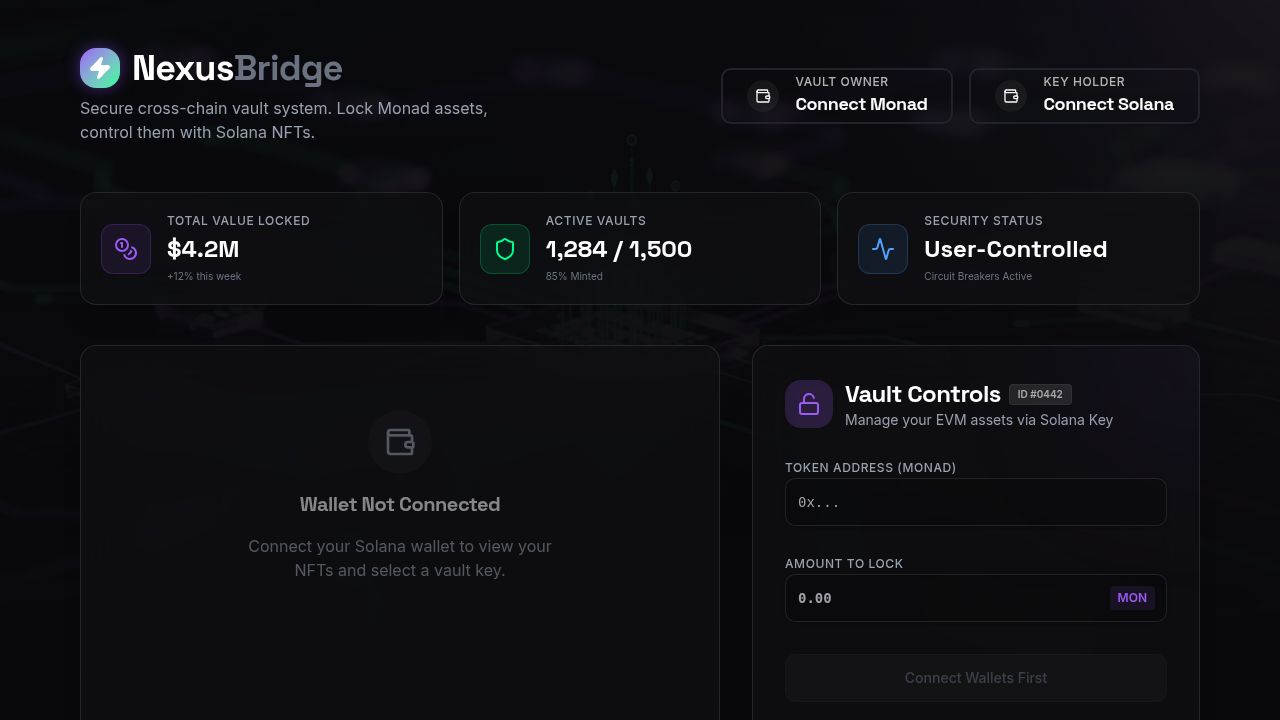
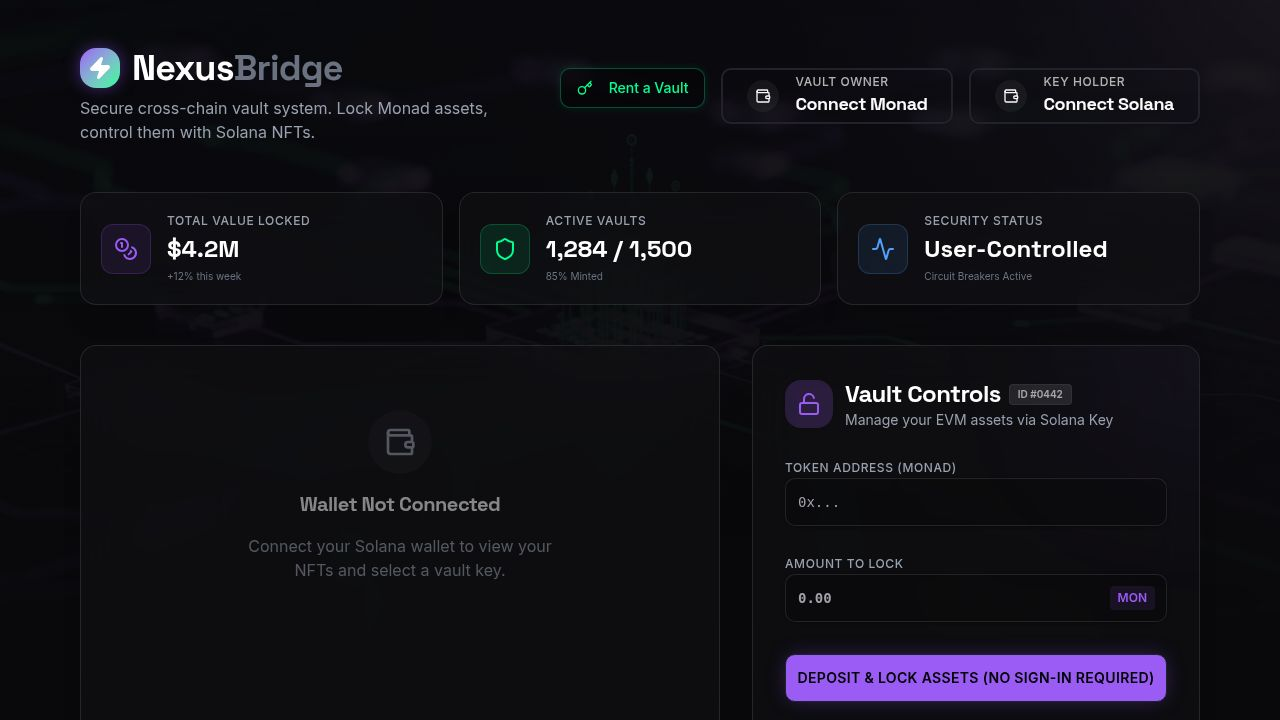
Add options to mint vault keys using QR codes or custom images
Integrate new minting methods (QR code and custom image) into `MintNftModal.tsx`, including UI updates and logic for generating visual signatures and processing uploads.

Replit-Commit-Author: Agent
Replit-Commit-Session-Id: 85125c5f-703c-4aff-8761-e4a4a5d4084c
Replit-Commit-Checkpoint-Type: full_checkpoint
Replit-Commit-Event-Id: 35571d31-1959-4d36-9ad8-fc3665dfab8d
Replit-Commit-Screenshot-Url: https://storage.googleapis.com/screenshot-production-us-central1/dc5e0740-d485-4e62-8101-ae9cfde10d19/85125c5f-703c-4aff-8761-e4a4a5d4084c/OAlcnFX
Replit-Helium-Checkpoint-Created: true

Changed region(s): [[0.5938, 0.8861, 0.9375, 0.9778], [0.4375, 0.0917, 0.5312, 0.1528]]

diff --git a/client/src/components/MintNftModal.tsx b/client/src/components/MintNftModal.tsx
@@ -1,10 +1,11 @@
-import { useState } from "react";
-import { Dialog, DialogContent, DialogHeader, DialogTitle, DialogDescription, DialogFooter } from "@/components/ui/dialog";
+import { useState, useMemo } from "react";
+import { Dialog, DialogContent, DialogHeader, DialogTitle, DialogDescription } from "@/components/ui/dialog";
 import { Button } from "@/components/ui/button";
 import { Input } from "@/components/ui/input";
 import { Label } from "@/components/ui/label";
-import { Terminal, Upload, Loader2, Key } from "lucide-react";
+import { Terminal, Upload, Loader2, Key, QrCode, ImageIcon } from "lucide-react";
 import { motion, AnimatePresence } from "framer-motion";
+import { Tabs, TabsList, TabsTrigger, TabsContent } from "@/components/ui/tabs";
 
 interface MintNftModalProps {
   isOpen: boolean;
@@ -16,7 +17,24 @@ export function MintNftModal({ isOpen, onClose, onSuccess }: MintNftModalProps) 
   const [step, setStep] = useState<"form" | "minting" | "success">("form");
   const [collectionName, setCollectionName] = useState("NexusBridge Secure Keys");
   const [keyName, setKeyName] = useState("Vault Key #001");
+  const [mintMethod, setMintMethod] = useState<"qr" | "image">("qr");
   const [logs, setLogs] = useState<string[]>([]);
+  const [previewImage, setPreviewImage] = useState<string | null>(null);
+
+  // Generate a random seed when the modal opens to use for the visual signature if the user hasn't typed much
+  const visualSeed = useMemo(() => Math.random().toString(36).substring(7), [isOpen]);
+  const currentSeed = keyName.length > 2 ? keyName : visualSeed;
+
+  const handleImageUpload = (e: React.ChangeEvent<HTMLInputElement>) => {
+    const file = e.target.files?.[0];
+    if (file) {
+      const reader = new FileReader();
+      reader.onloadend = () => {
+        setPreviewImage(reader.result as string);
+      };
+      reader.readAsDataURL(file);
+    }
+  };
 
   const handleMint = () => {
     setStep("minting");
@@ -38,6 +56,16 @@ export function MintNftModal({ isOpen, onClose, onSuccess }: MintNftModalProps) 
       await addLog("WebSocket URL: wss://api.devnet.solana.com/", 100);
       await addLog(`> spl-token create-token --program-id TokenzQdBNbLqP5VEhdkAS6EPFLC1PHnBqCXEpPxuEb`, 1000);
       await addLog("Creating token 7Xz...9qL under Token-2022 Program", 500);
+      
+      if (mintMethod === 'qr') {
+        await addLog("> Generating secure QR payload...", 400);
+        await addLog(`Applying visual signature hash: ${currentSeed.substring(0, 8)}...`, 300);
+        await addLog("Payload: nexus://auth/vault/0442/sig=9x2...", 300);
+      } else {
+        await addLog("> Processing custom image asset...", 600);
+        await addLog("Optimizing image resolution and generating hash...", 400);
+      }
+
       await addLog(`> metaplex mint --collection "${collectionName}" --name "${keyName}"`, 1200);
       await addLog("Uploading metadata to Arweave (Irys)...", 800);
       await addLog("Transaction Signature: 4vJ9mK...pQw2", 1500);
@@ -52,14 +80,19 @@ export function MintNftModal({ isOpen, onClose, onSuccess }: MintNftModalProps) 
   };
 
   const handleFinish = () => {
+    const finalImage = mintMethod === 'image' && previewImage 
+      ? previewImage 
+      : `https://api.dicebear.com/7.x/shapes/svg?seed=${encodeURIComponent(currentSeed)}&backgroundColor=000000`;
+
     onSuccess({
       id: Math.random().toString(36).substring(7),
       name: keyName,
-      image: "https://images.unsplash.com/photo-1639815188546-c43c240ff4df?w=400&h=400&fit=crop", // Abstract crypto art
-      rarity: "Custom Mint",
+      image: finalImage,
+      rarity: mintMethod === 'qr' ? "Visual QR Key" : "Custom Art",
     });
     setStep("form");
     setLogs([]);
+    setPreviewImage(null);
     onClose();
   };
 
@@ -67,6 +100,7 @@ export function MintNftModal({ isOpen, onClose, onSuccess }: MintNftModalProps) 
     if (step !== "minting") {
       setStep("form");
       setLogs([]);
+      setPreviewImage(null);
       onClose();
     }
   };
@@ -80,7 +114,7 @@ export function MintNftModal({ isOpen, onClose, onSuccess }: MintNftModalProps) 
             Mint New Vault Key
           </DialogTitle>
           <DialogDescription className="text-gray-400">
-            Use Metaplex Core and Solana CLI to mint a new secure NFT bearer instrument.
+            Mint a secure NFT bearer instrument directly to your wallet.
           </DialogDescription>
         </DialogHeader>
 
@@ -94,35 +128,99 @@ export function MintNftModal({ isOpen, onClose, onSuccess }: MintNftModalProps) 
               className="space-y-6 py-4"
             >
               <div className="space-y-2">
-                <Label className="text-xs uppercase tracking-wider text-gray-400">Collection</Label>
-                <Input
-                  value={collectionName}
-                  onChange={(e) => setCollectionName(e.target.value)}
-                  className="bg-white/5 border-white/10 focus-visible:ring-solana-green"
-                />
-              </div>
-              <div className="space-y-2">
                 <Label className="text-xs uppercase tracking-wider text-gray-400">Key Name</Label>
                 <Input
                   value={keyName}
                   onChange={(e) => setKeyName(e.target.value)}
                   className="bg-white/5 border-white/10 focus-visible:ring-solana-green font-mono"
+                  placeholder="Enter a name to generate your visual signature"
                 />
               </div>
-              <div className="space-y-2">
-                <Label className="text-xs uppercase tracking-wider text-gray-400">Artwork (Optional)</Label>
-                <div className="h-24 rounded-lg border-2 border-dashed border-white/10 flex flex-col items-center justify-center text-gray-500 hover:text-white hover:border-white/30 hover:bg-white/5 transition-all cursor-pointer">
-                  <Upload className="h-6 w-6 mb-2" />
-                  <span className="text-xs">Click to upload custom art</span>
-                </div>
-                <p className="text-[10px] text-gray-500 text-center">Defaults to NexusBridge generative art if left blank</p>
+
+              <div className="space-y-3">
+                <Label className="text-xs uppercase tracking-wider text-gray-400">Key Format</Label>
+                <Tabs value={mintMethod} onValueChange={(v) => setMintMethod(v as "qr" | "image")} className="w-full">
+                  <TabsList className="grid w-full grid-cols-2 bg-white/5 border border-white/10">
+                    <TabsTrigger value="qr" className="data-[state=active]:bg-solana-green data-[state=active]:text-black transition-all">
+                      <QrCode className="h-4 w-4 mr-2" />
+                      Secure QR Code
+                    </TabsTrigger>
+                    <TabsTrigger value="image" className="data-[state=active]:bg-solana-green data-[state=active]:text-black transition-all">
+                      <ImageIcon className="h-4 w-4 mr-2" />
+                      Custom Image
+                    </TabsTrigger>
+                  </TabsList>
+                  
+                  <div className="mt-4 min-h-[160px] border border-white/10 rounded-lg bg-black/40 flex items-center justify-center p-4 relative overflow-hidden">
+                    <TabsContent value="qr" className="m-0 w-full flex flex-col items-center justify-center text-center space-y-4">
+                       <div className="p-4 bg-white rounded-lg relative">
+                         <QrCode className="h-20 w-20 text-black" />
+                         <div className="absolute inset-0 flex items-center justify-center pointer-events-none">
+                           <div className="h-8 w-8 rounded overflow-hidden border-2 border-white bg-black">
+                             <img 
+                               src={`https://api.dicebear.com/7.x/shapes/svg?seed=${encodeURIComponent(currentSeed)}`} 
+                               alt="Visual Signature" 
+                               className="w-full h-full object-cover"
+                             />
+                           </div>
+                         </div>
+                       </div>
+                       <div>
+                         <p className="text-sm font-bold text-solana-green">Cryptographic QR Key</p>
+                         <p className="text-xs text-gray-400 max-w-[250px] mx-auto mt-1">
+                           Includes a unique visual signature based on the Key Name so you can easily recognize it.
+                         </p>
+                       </div>
+                    </TabsContent>
+                    
+                    <TabsContent value="image" className="m-0 w-full h-full">
+                      {previewImage ? (
+                        <div className="relative w-full h-full min-h-[140px] flex items-center justify-center group">
+                          <img src={previewImage} alt="Preview" className="max-h-[140px] rounded-md object-contain" />
+                          <div className="absolute inset-0 bg-black/60 opacity-0 group-hover:opacity-100 transition-opacity flex items-center justify-center rounded-md">
+                            <Label htmlFor="image-upload" className="cursor-pointer text-white text-xs font-bold px-3 py-1.5 bg-white/20 rounded hover:bg-white/30 transition-colors">
+                              Change Image
+                            </Label>
+                          </div>
+                        </div>
+                      ) : (
+                        <div className="flex flex-col items-center justify-center h-full min-h-[140px] text-gray-500 hover:text-white transition-colors cursor-pointer w-full">
+                          <Label htmlFor="image-upload" className="flex flex-col items-center justify-center cursor-pointer w-full h-full">
+                            <Upload className="h-8 w-8 mb-3" />
+                            <span className="text-sm font-medium">Click to upload custom art</span>
+                            <span className="text-[10px] mt-1 text-gray-500">JPG, PNG, GIF up to 5MB</span>
+                          </Label>
+                        </div>
+                      )}
+                      <input 
+                        id="image-upload" 
+                        type="file" 
+                        accept="image/*" 
+                        className="hidden" 
+                        onChange={handleImageUpload}
+                      />
+                    </TabsContent>
+                  </div>
+                </Tabs>
+              </div>
+
+              <div className="p-3 bg-solana-green/10 border border-solana-green/20 rounded-lg flex gap-3 items-start">
+                 <div className="p-1.5 bg-solana-green/20 rounded-full mt-0.5">
+                   <Key className="h-3 w-3 text-solana-green" />
+                 </div>
+                 <div>
+                   <p className="text-xs font-bold text-solana-green">No Sign-in Required</p>
+                   <p className="text-[10px] text-solana-green/70 leading-tight mt-1">
+                     Keys are minted directly to your connected wallet. The asset itself is the only authentication needed to unlock funds.
+                   </p>
+                 </div>
               </div>
 
               <Button
                 onClick={handleMint}
                 className="w-full h-12 bg-solana-green hover:bg-solana-green/90 text-black font-bold shadow-[0_0_15px_-3px_rgba(20,241,149,0.4)]"
               >
-                Mint via Solana CLI
+                Mint {mintMethod === 'qr' ? 'QR Key' : 'Image Key'}
               </Button>
             </motion.div>
           )}
@@ -167,12 +265,28 @@ export function MintNftModal({ isOpen, onClose, onSuccess }: MintNftModalProps) 
               animate={{ opacity: 1, scale: 1 }}
               className="py-6 flex flex-col items-center text-center space-y-4"
             >
-              <div className="h-20 w-20 rounded-full bg-solana-green/20 flex items-center justify-center border border-solana-green/30">
-                <Terminal className="h-10 w-10 text-solana-green" />
-              </div>
+              {mintMethod === 'qr' ? (
+                <div className="p-3 bg-white rounded-xl relative">
+                  <QrCode className="h-24 w-24 text-black" />
+                  <div className="absolute inset-0 flex items-center justify-center pointer-events-none">
+                    <div className="h-10 w-10 rounded overflow-hidden border-[3px] border-white bg-black">
+                      <img 
+                        src={`https://api.dicebear.com/7.x/shapes/svg?seed=${encodeURIComponent(currentSeed)}`} 
+                        alt="Visual Signature" 
+                        className="w-full h-full object-cover"
+                      />
+                    </div>
+                  </div>
+                </div>
+              ) : (
+                <div className="h-24 w-24 rounded-xl overflow-hidden border-2 border-solana-green/50">
+                  <img src={previewImage || ""} alt="Minted NFT" className="w-full h-full object-cover" />
+                </div>
+              )}
+              
               <div>
                 <h3 className="font-display text-xl font-bold text-white mb-1">Minting Complete</h3>
-                <p className="text-sm text-gray-400">Your new NFT Key has been added to your wallet.</p>
+                <p className="text-sm text-gray-400">Your {mintMethod === 'qr' ? 'QR Key' : 'Custom Image Key'} is now in your wallet.</p>
               </div>
               <Button
                 onClick={handleFinish}